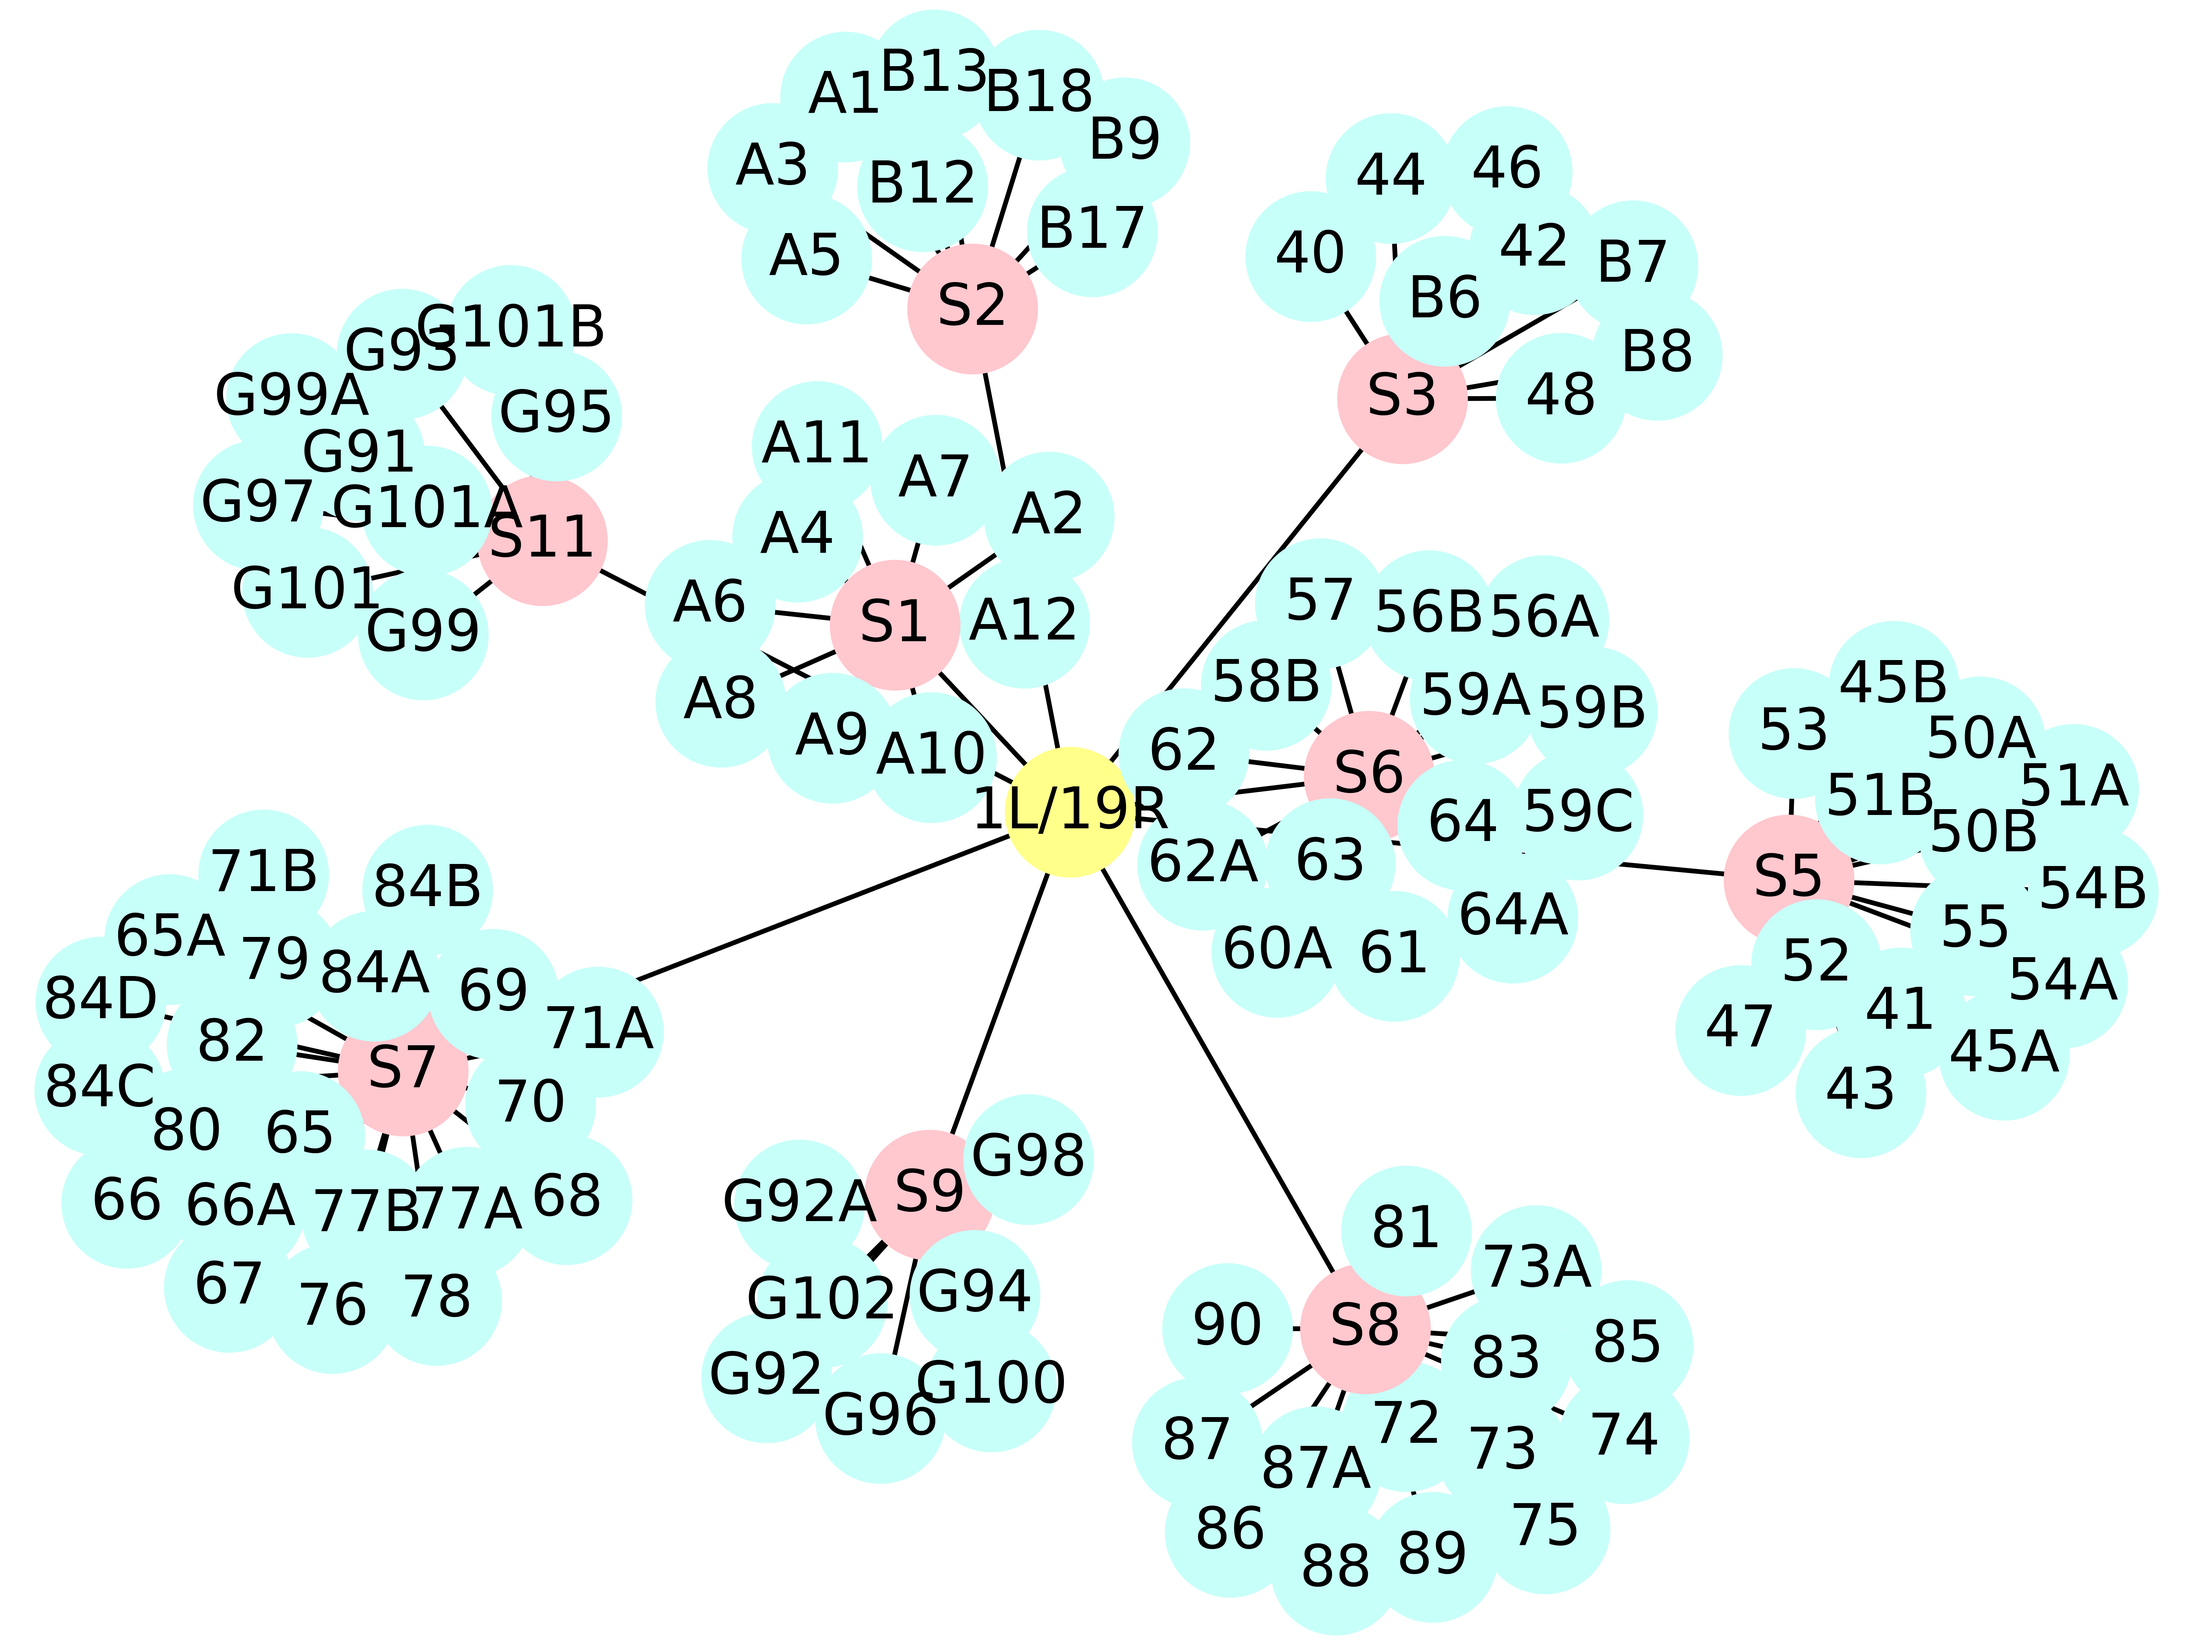
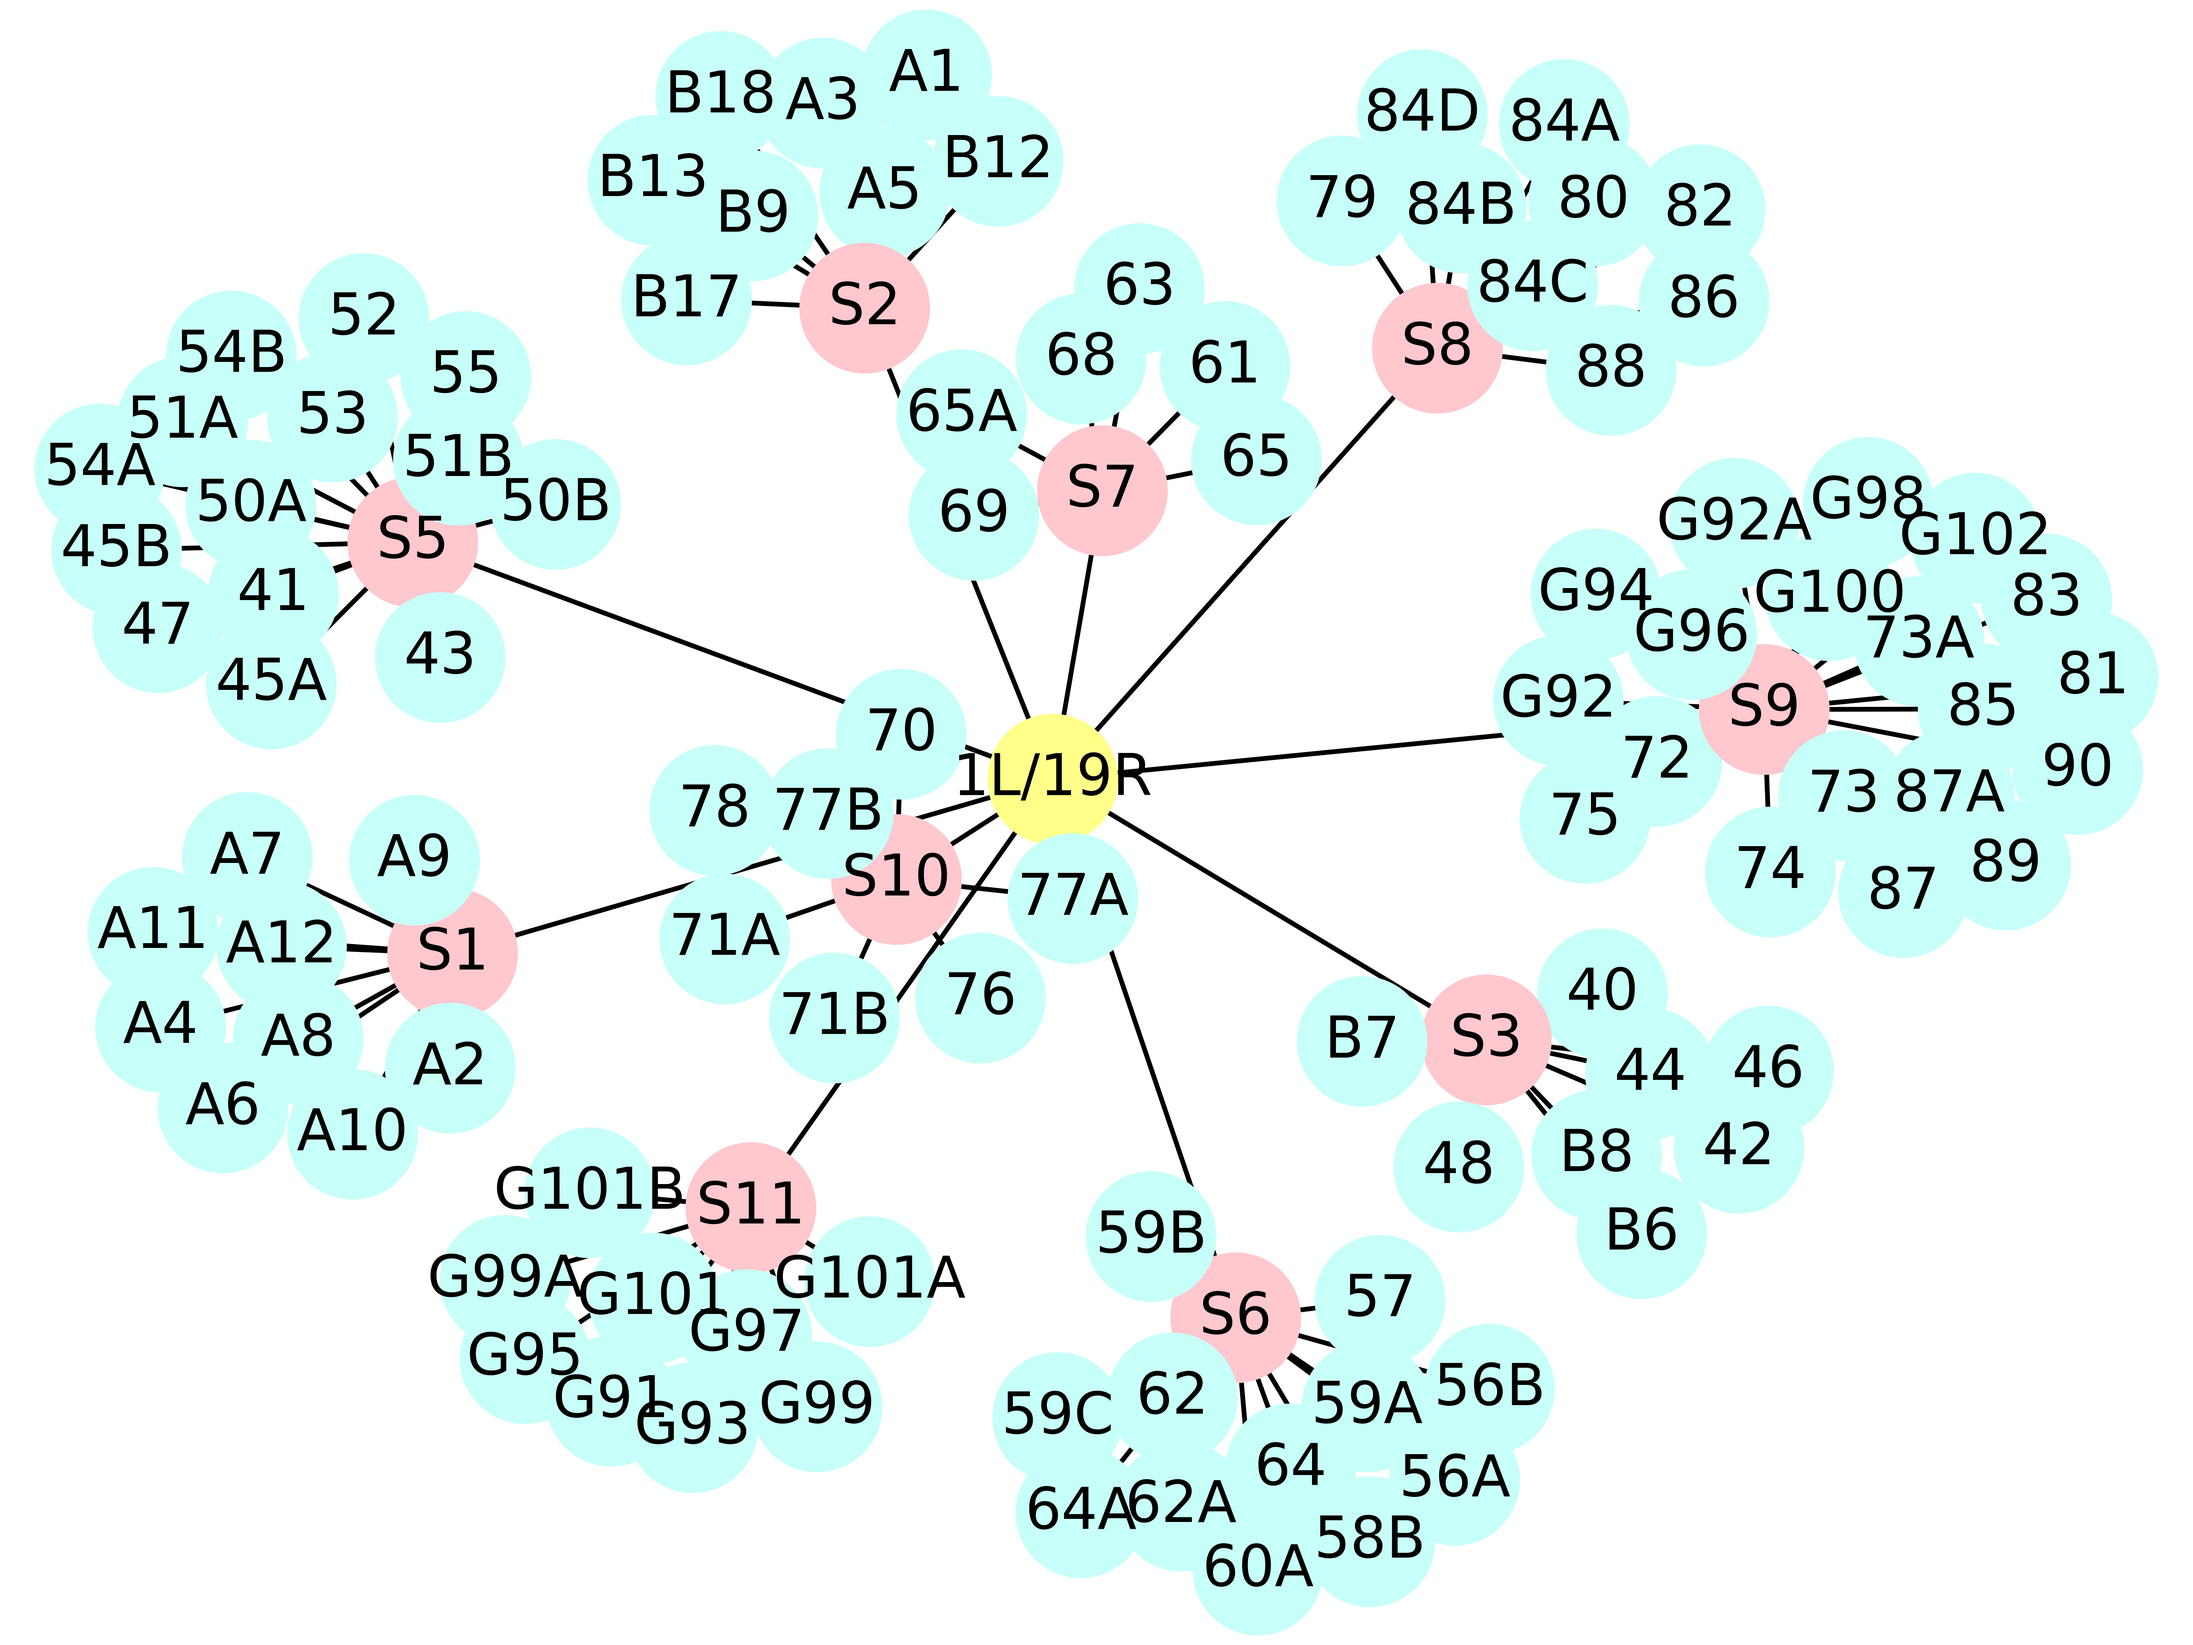
Change spots to gates mapping for real-west-all-terminals

diff --git a/data/real-west-all-terminals/generate_scenario.py b/data/real-west-all-terminals/generate_scenario.py
@@ -40,14 +40,13 @@ spots_to_gates = {
            "52", "53", "54A", "54B", "55"],
     "S6": ["56A", "56B", "57", "58A", "58B", "59A", "59B", "59C", "60A",
            "61", "62", "62A", "63", "64", "64A"],
-    "S7": ["65", "65A", "66", "66A", "67", "68", "69", "70",
-           "71A", "71B", "76", "77A", "77B", "78", "79", "80",
-           "82", "84A", "84B", "84C", "84D"],
-    "S8": ["72", "73", "73A", "74", "75", "81", "83", "85", "86", "87",
-           "87A", "88", "89", "90"],
-    "S9": ["G92", "G92A", "G94", "G96", "G98", "G100", "G102"],
+    "S7": ["68", "69", "65", "65A", "63", "61"],
+    "S8": ["79", "80", "82", "84A", "84B", "84C", "84D", "86", "88"],
+    "S9": ["G92", "G92A", "G94", "G96", "G98", "G100", "G102", "72", "73", "73A", "74", "75", 
+            "81", "83", "85", "87", "87A", "89", "90"],
     "S11": ["G91", "G93", "G95", "G97", "G99", "G99A", "G101", "G101A",
-            "G101B"]
+            "G101B"],
+    "S10": ["70", "71A", "71B", "76", "77A", "77B", "78"]
 }
 
 inters = ["I1", "I2", "I3", "I4", "I5", "I6", "I7", "I8", "I9", "I10",

diff --git a/graph_model.py b/graph_model.py
@@ -158,6 +158,6 @@ def create_spots_to_taxiways_edge(flight_type):
             added_spot.add(spot.name)
             G.addEdge(runway_name, spot.name, round(distance, 2))
 
-create_spots_to_taxiways_edge("Arrival")
+create_spots_to_taxiways_edge("Departure")
 
 G.visualize(surface)
